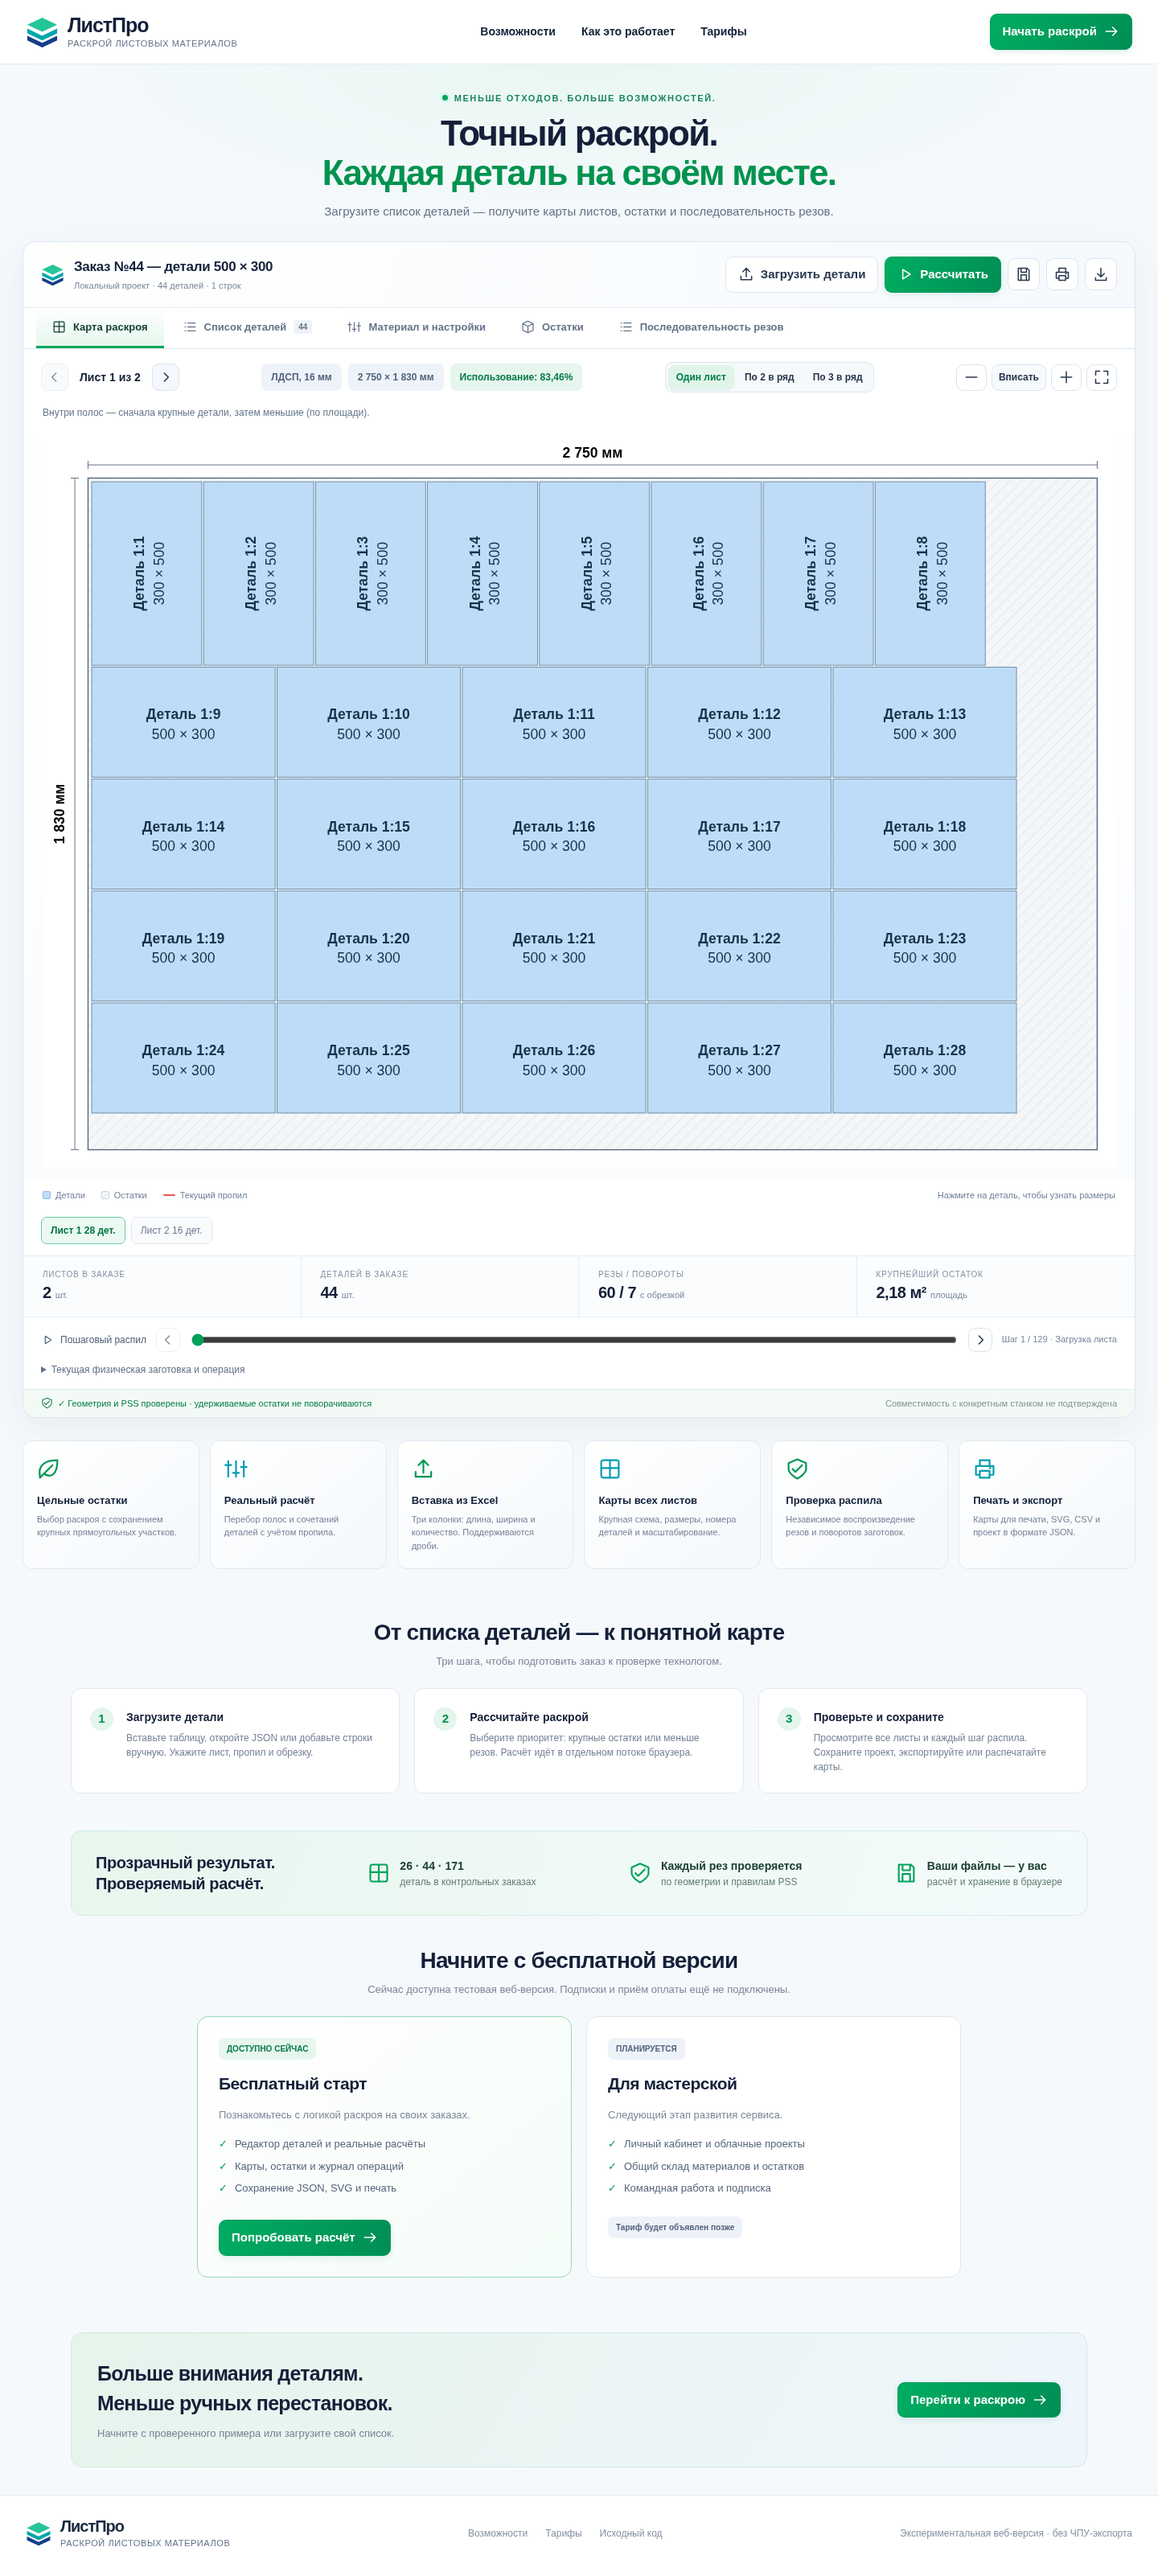
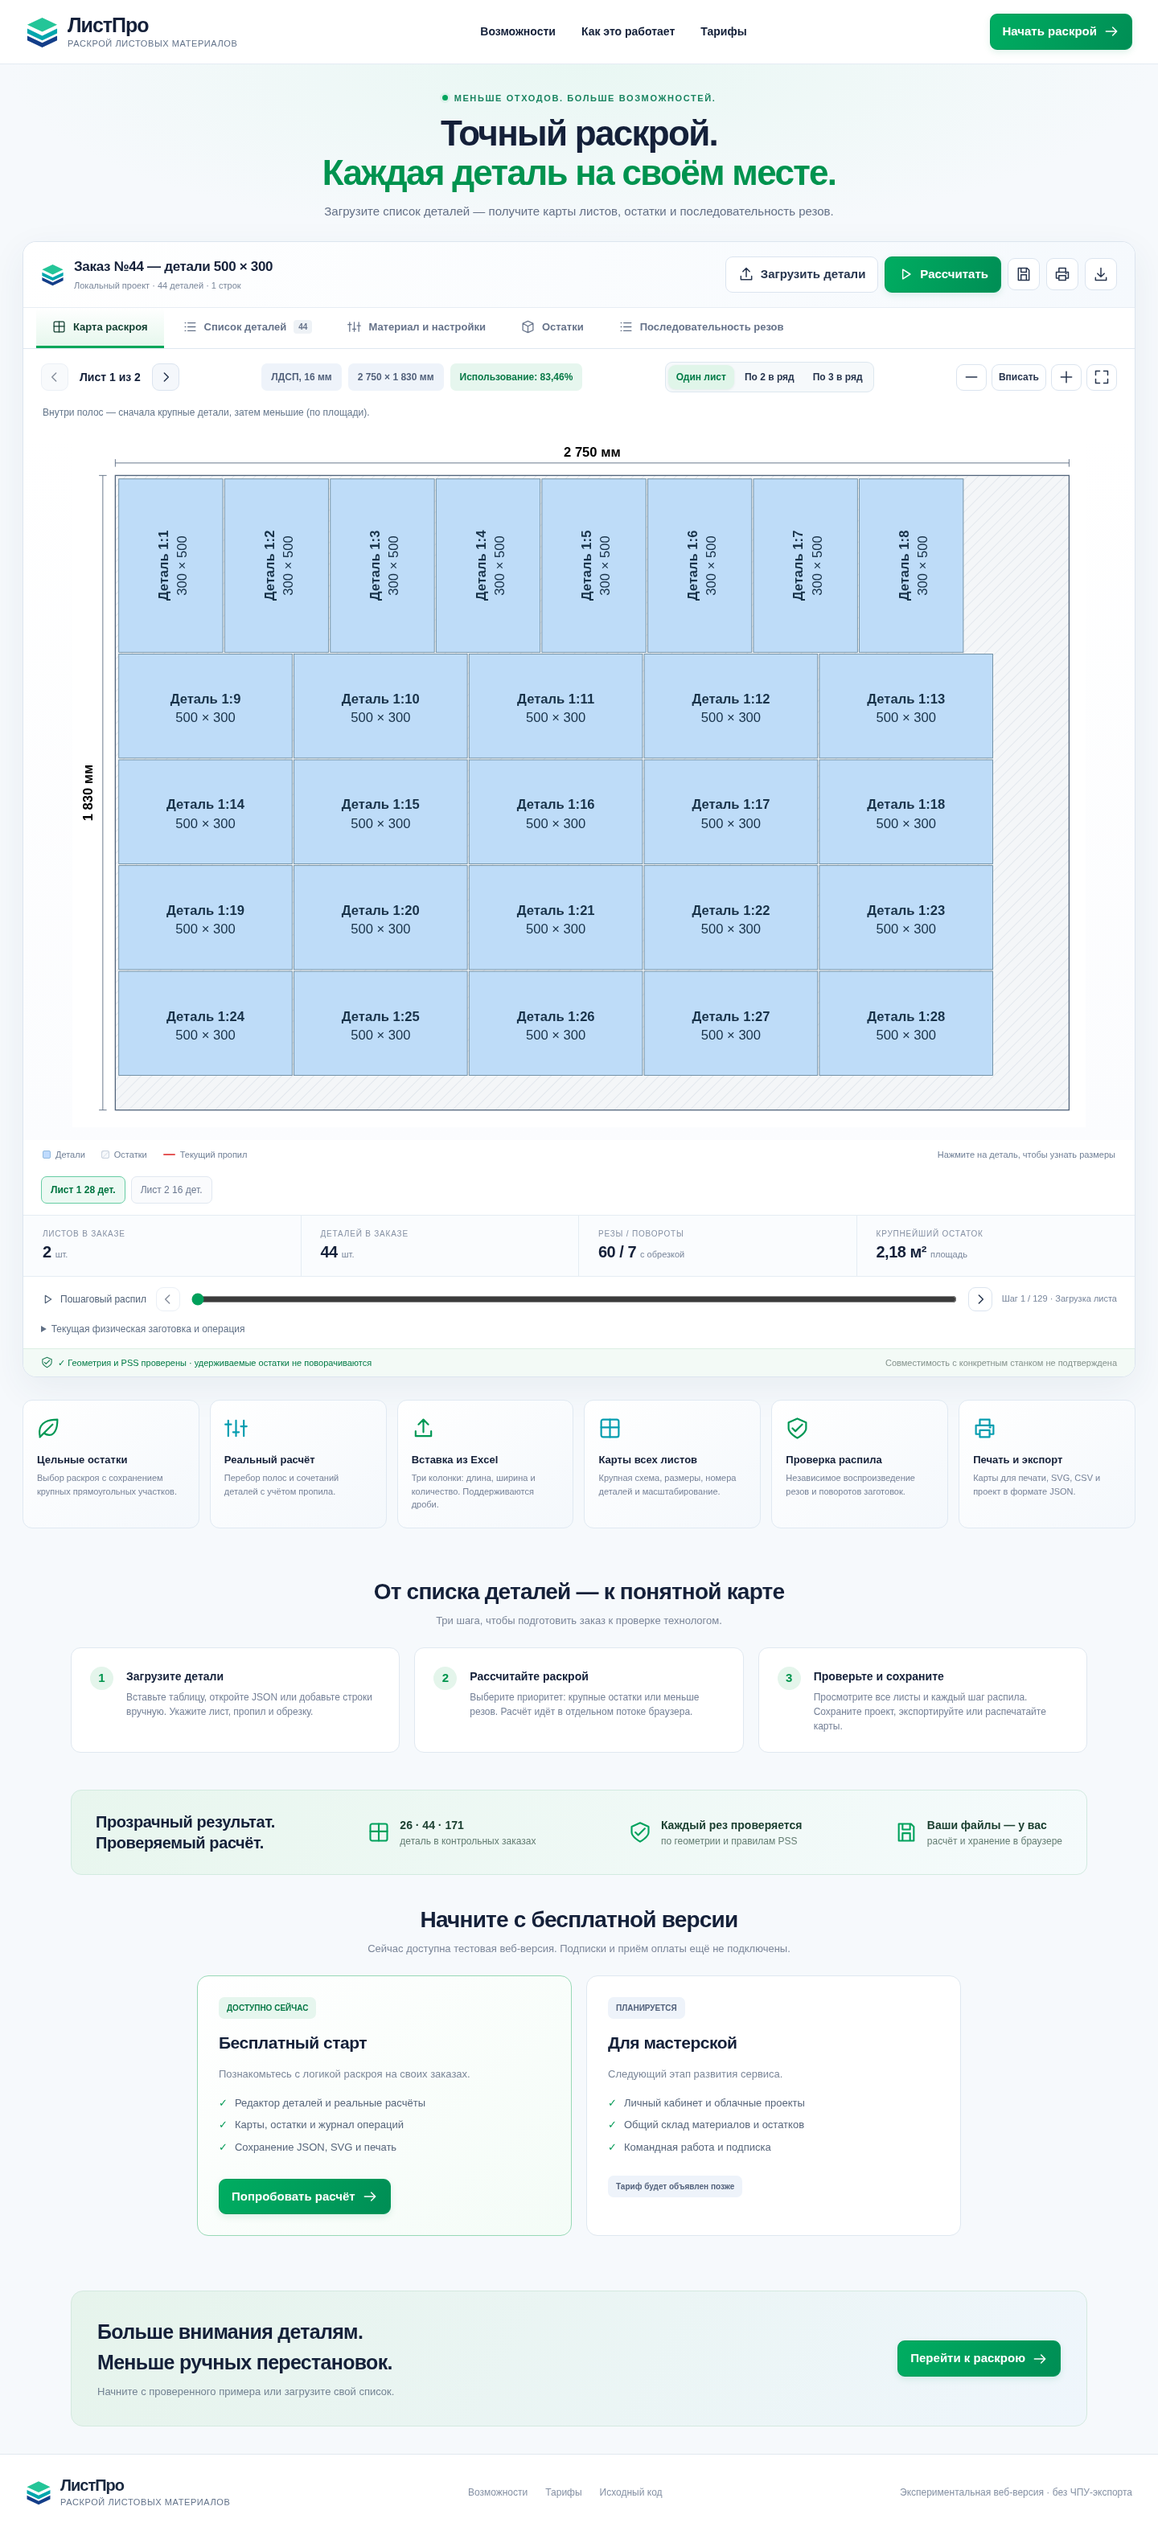
Fit single cutting sheet to 80 percent of viewport height

diff --git a/listpro-core/web/index.html b/listpro-core/web/index.html
@@ -2001,7 +2001,7 @@ const engine=load("web/engine.cjs");self.onmessage=({data:m})=>{try{let result;i
     return '<button class="sheet-card" data-open-sheet="'+i+'" aria-label="Открыть лист '+(i+1)+' крупно"><span class="sheet-card-header"><strong>Лист '+(i+1)+'</strong><span>'+sh.parts.length+' дет. · '+usage+'%</span></span>'+mapSVG(i,false,true)+'<span class="sheet-card-footer">'+fmt(p.sheetW)+' × '+fmt(p.sheetH)+' мм<span>Открыть лист</span></span></button>';
    }).join('');
   }
-  $('drawing').innerHTML=mapSVG(sheet,true);const picture=$('drawing').firstElementChild;picture.style.width=(zoom*100)+'%';picture.style.maxHeight='none';
+  $('drawing').innerHTML=mapSVG(sheet,true);const picture=$('drawing').firstElementChild,margin=Math.max(p.sheetW*.045,90),ratio=(p.sheetW+margin*1.4)/(p.sheetH+margin*1.4);picture.style.width='min('+(zoom*100)+'%, '+(80*ratio*zoom)+'vh)';picture.style.maxHeight=(80*zoom)+'vh';
   $('sheetLabel').textContent=gallery?'Все листы · '+result.sheets.length:'Лист '+(sheet+1)+' из '+result.sheets.length;$('prevSheet').disabled=sheet===0;$('nextSheet').disabled=sheet===result.sheets.length-1;
   $('materialBadge').textContent=project.material;$('sizeBadge').textContent=fmt(p.sheetW)+' × '+fmt(p.sheetH)+' мм';
   $('usageBadge').textContent='Использование: '+fmt(100*(gallery?result.sheets.flatMap(s=>s.parts):sh.parts).reduce((n,a)=>n+a.w*a.h,0)/(p.sheetW*p.sheetH*(gallery?result.sheets.length:1)))+'%';

diff --git a/listpro-core/web/app.js b/listpro-core/web/app.js
@@ -82,7 +82,7 @@
     return '<button class="sheet-card" data-open-sheet="'+i+'" aria-label="Открыть лист '+(i+1)+' крупно"><span class="sheet-card-header"><strong>Лист '+(i+1)+'</strong><span>'+sh.parts.length+' дет. · '+usage+'%</span></span>'+mapSVG(i,false,true)+'<span class="sheet-card-footer">'+fmt(p.sheetW)+' × '+fmt(p.sheetH)+' мм<span>Открыть лист</span></span></button>';
    }).join('');
   }
-  $('drawing').innerHTML=mapSVG(sheet,true);const picture=$('drawing').firstElementChild;picture.style.width=(zoom*100)+'%';picture.style.maxHeight='none';
+  $('drawing').innerHTML=mapSVG(sheet,true);const picture=$('drawing').firstElementChild,margin=Math.max(p.sheetW*.045,90),ratio=(p.sheetW+margin*1.4)/(p.sheetH+margin*1.4);picture.style.width='min('+(zoom*100)+'%, '+(80*ratio*zoom)+'vh)';picture.style.maxHeight=(80*zoom)+'vh';
   $('sheetLabel').textContent=gallery?'Все листы · '+result.sheets.length:'Лист '+(sheet+1)+' из '+result.sheets.length;$('prevSheet').disabled=sheet===0;$('nextSheet').disabled=sheet===result.sheets.length-1;
   $('materialBadge').textContent=project.material;$('sizeBadge').textContent=fmt(p.sheetW)+' × '+fmt(p.sheetH)+' мм';
   $('usageBadge').textContent='Использование: '+fmt(100*(gallery?result.sheets.flatMap(s=>s.parts):sh.parts).reduce((n,a)=>n+a.w*a.h,0)/(p.sheetW*p.sheetH*(gallery?result.sheets.length:1)))+'%';

diff --git a/listpro-core/web/RESULTS.md b/listpro-core/web/RESULTS.md
@@ -91,3 +91,9 @@ GitHub Actions для первой полной веб-сборки 481003df38d4
 Удалены прежние ограничения 780 px по ширине и 520 px / 52vh по высоте. «Один лист» использует всю внутреннюю ширину рабочей области с сохранением пропорций SVG; «Вписать» возвращает масштаб к этой ширине. Увеличение и полный экран работают без старого ограничения высоты. Сетки по 2/3 не изменены.
 
 12 веб-проверок прошли. Chromium при 1440×1080: карта одного листа 1334×914,16 px против 632×433,09 px в двух колонках; проверены увеличение и возврат к исходному масштабу. Мобильная ширина документа 390 px без переполнения. Остальные браузерные сценарии прошли, ошибок JavaScript нет. Алгоритм раскроя не менялся.
+
+## Уточнение: карта высотой 80% окна (2026-11-04)
+
+По уточнению пользователя режим «Один лист» и «Вписать» ограничены 80vh. Ширина рассчитывается из пропорций SVG и доступной области, карта центрируется. На узком экране ограничение ширины имеет приоритет; ручное увеличение работает относительно этого базового размера. Сетки по 2/3 не изменены.
+
+Пройдены 12 веб-проверок и Chromium: при высоте окна 1080 px SVG имеет высоту 863,98 px, при 900 px — 720 px; пропорции сохраняются при изменении окна. Проверены увеличение и возврат, мобильная вёрстка и прежние браузерные сценарии. Ошибок JavaScript нет.
